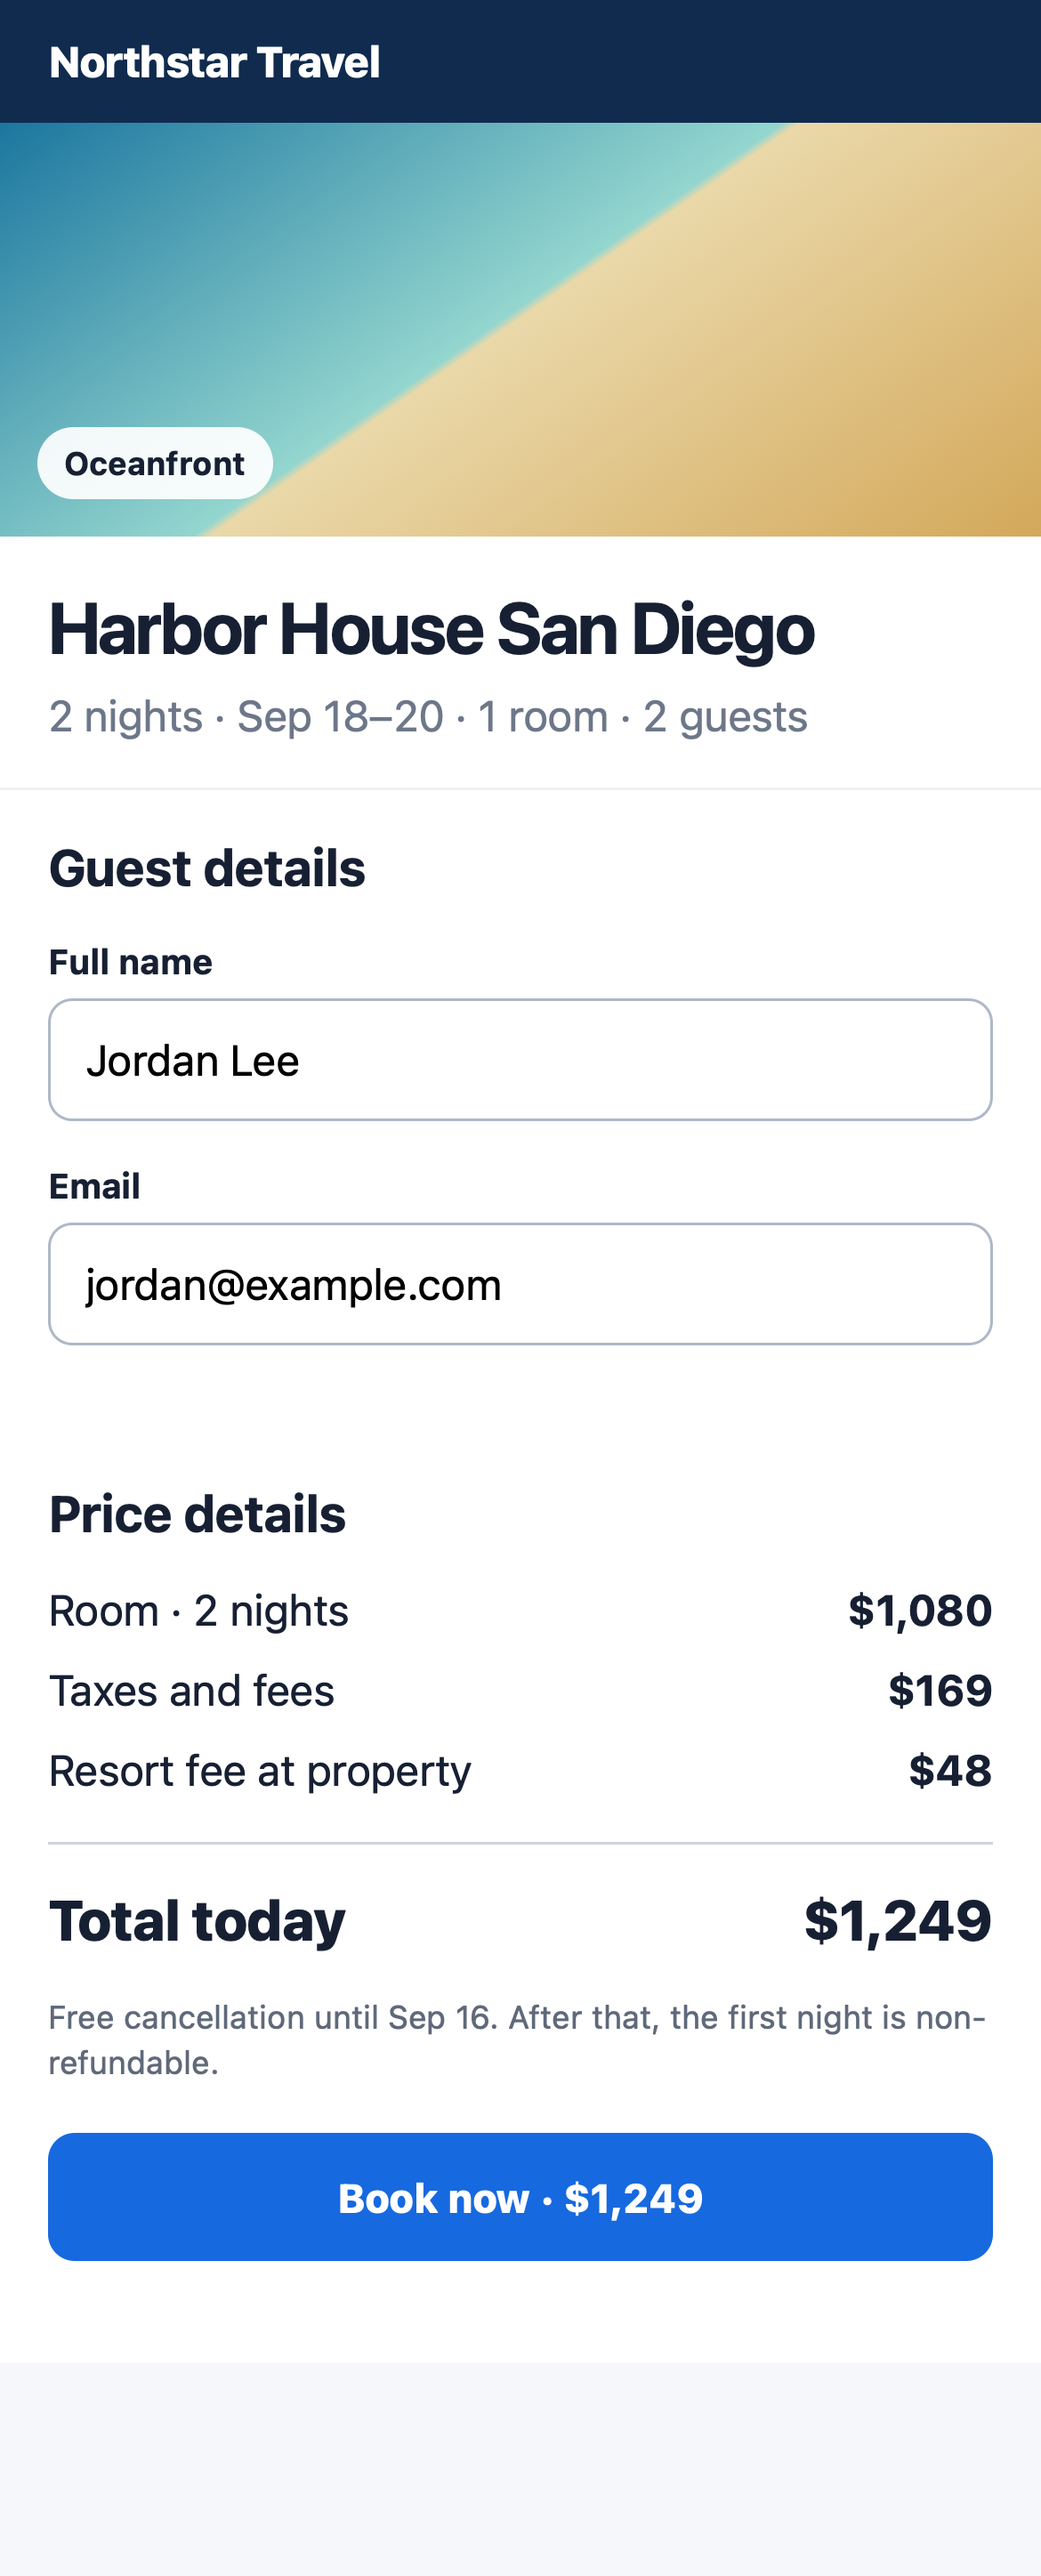
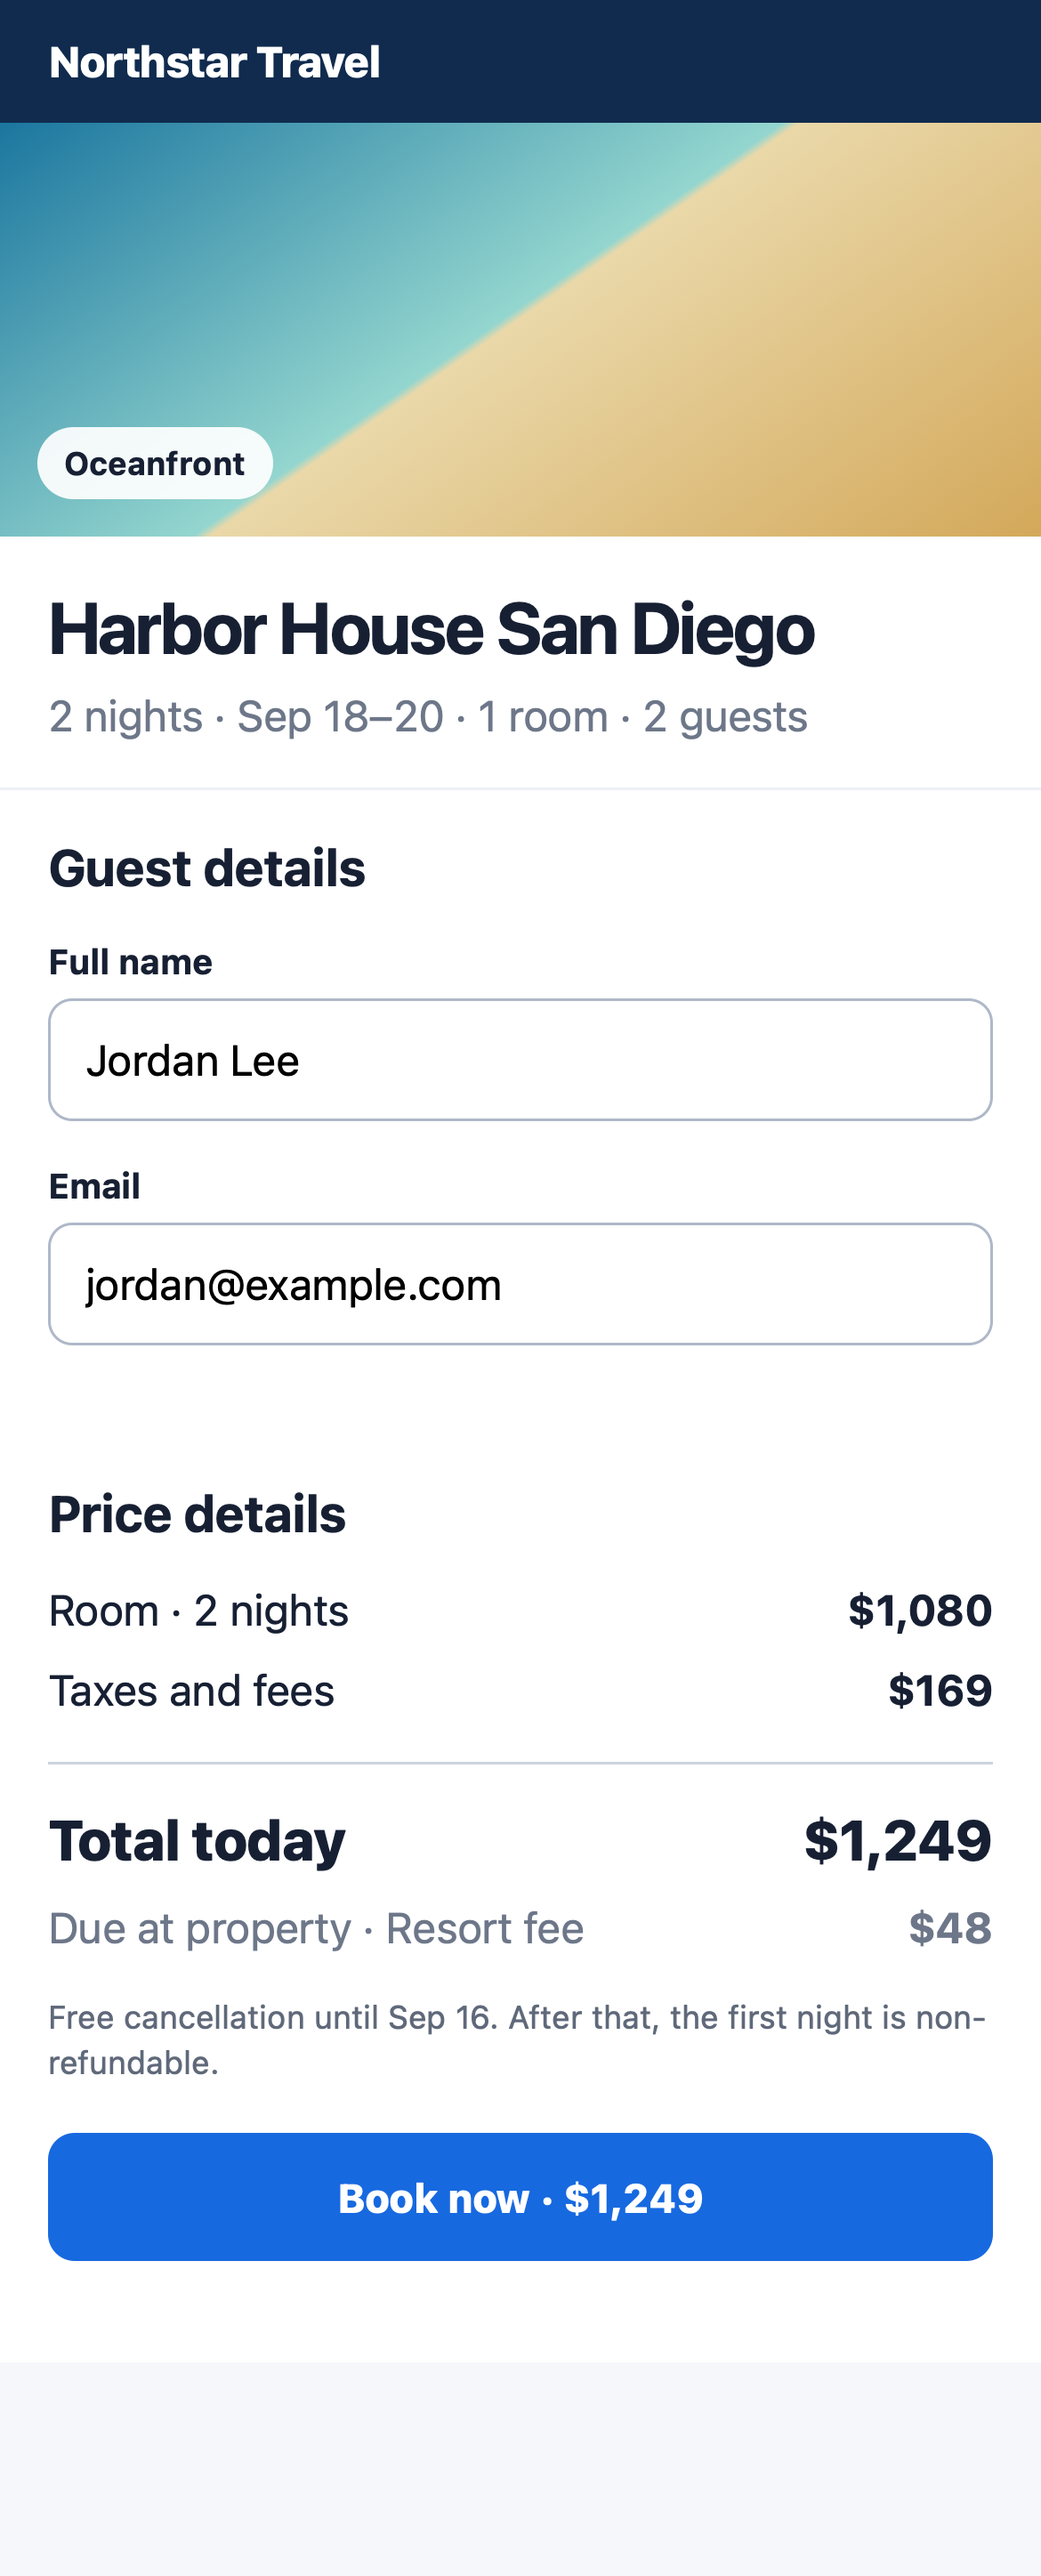
test: clarify resort fee payment timing

diff --git a/index.html b/index.html
@@ -69,8 +69,8 @@
       <h2>Price details</h2>
       <div class="row"><span>Room · 2 nights</span><strong>$1,080</strong></div>
       <div class="row"><span>Taxes and fees</span><strong>$169</strong></div>
-      <div class="row"><span>Resort fee at property</span><strong>$48</strong></div>
       <div class="row total"><span>Total today</span><span>$1,249</span></div>
+      <div class="row muted"><span>Due at property · Resort fee</span><strong>$48</strong></div>
       <p class="fine-print">Free cancellation until Sep 16. After that, the first night is non-refundable.</p>
       <div class="actions desktop-actions">
         <button class="primary">Book now · $1,249</button>
